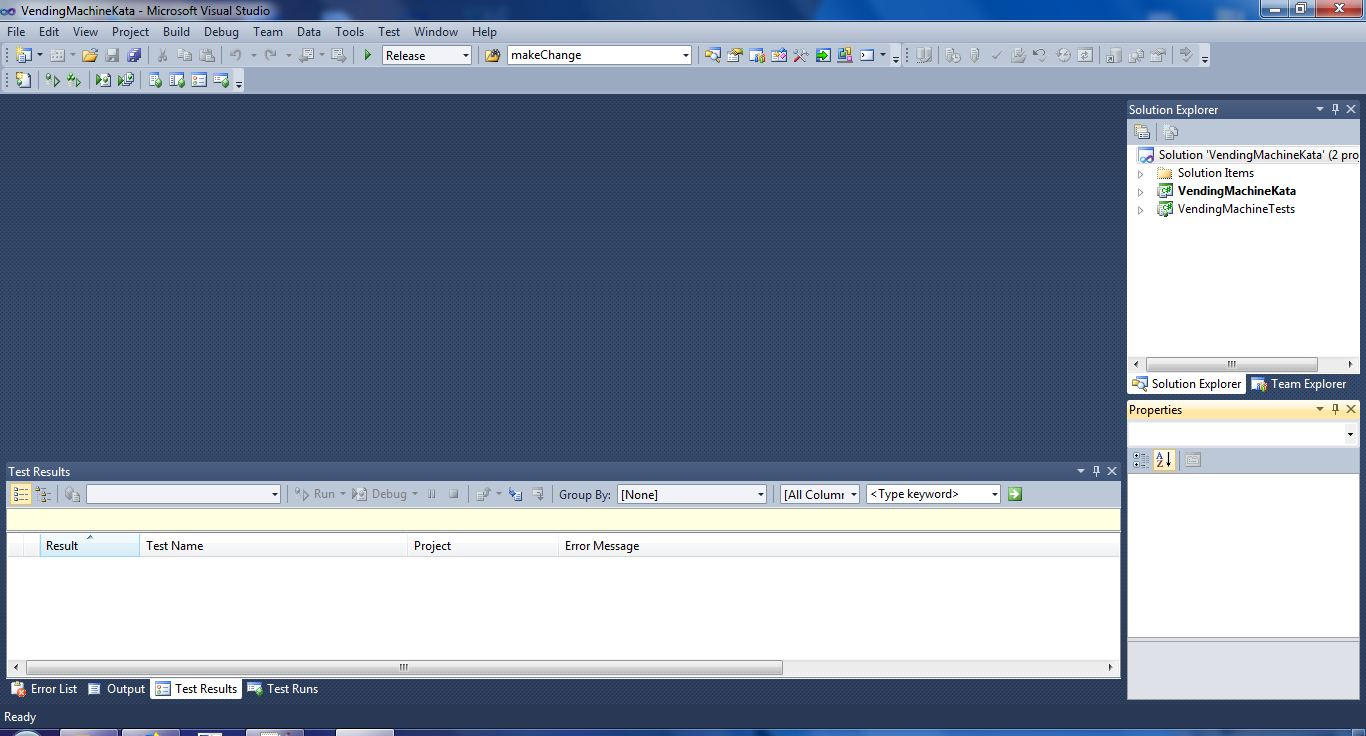
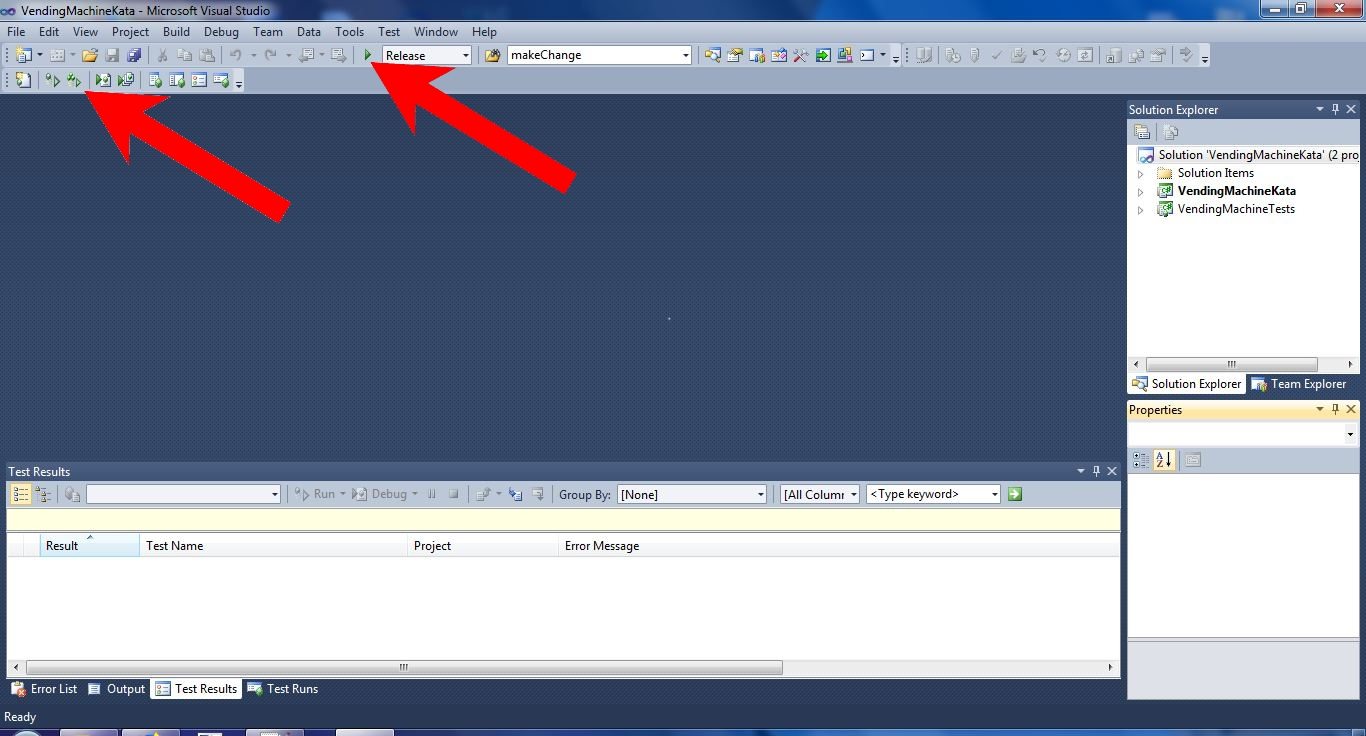
Updated ReadMe file

Changed region(s): [[0.2767, 0.0625, 0.4305, 0.2812], [0.0615, 0.125, 0.2152, 0.3125]]

diff --git a/README.md b/README.md
@@ -1,2 +1,41 @@
-# Vending-Machine-Kata
-Test Driven Development In Application Development
+Getting the vending machine to run
+----- 
+### Requirements:
+ * Microsoft Visual Studio 2010 or higher
+ * Microsoft Visual Studio Testing Tools
+ 
+### Running the tests:
+![FileLaunch](https://raw.githubusercontent.com/MegaManExpert/Vending-Machine-Kata/master/Screenshots/FileLaunch.JPG)
+Click on the VendingMachineKata.sln to open it in Visual Studio
+
+![RunTests](https://raw.githubusercontent.com/MegaManExpert/Vending-Machine-Kata/master/Screenshots/RunProgram-Tests.JPG)
+Click on "Run All Tests in Solution" button or Ctrl+R, A to run all the tests.
+
+![ViewTests](https://raw.githubusercontent.com/MegaManExpert/Vending-Machine-Kata/master/Screenshots/Tests.JPG)
+To view tests, click on the VendingMachineTests section to see each requirements tests
+
+### Running the Program:
+![FileLaunch](https://raw.githubusercontent.com/MegaManExpert/Vending-Machine-Kata/master/Screenshots/FileLaunch.JPG)
+Click on the VendingMachineKata.sln to open it in Visual Studio
+
+-OR-
+
+![RunExe](https://raw.githubusercontent.com/MegaManExpert/Vending-Machine-Kata/master/Screenshots/Running.JPG)
+Path over to VendingMachineKata\bin\Release and run "VendingMachineKata.exe" to run without launching Visual Studio
+
+![RunFromIDE](https://raw.githubusercontent.com/MegaManExpert/Vending-Machine-Kata/master/Screenshots/RunProgram-Tests.JPG)
+Click on "Start Debugging" button or F5 to build and run the application
+
+### Requirements:
+Just follow the directions on the screen by using the diffrent coins inputs, code buttons, or coin return.
+
+####List of valid commands:
+ * "Penny": Adds a single cent to the machine.
+ * "Nickle": Adds a five cents to the machine.
+ * "Dime": Adds a five cents to the machine.
+ * "Quarter": Adds a five cents to the machine.
+ * "A1": Selects the "Cola" product and returns it's price if current ammount is less then vend, is sold out, or vends.
+ * "B2": Selects the "Chips" product and returns it's price if current ammount is less then vend, is sold out, or vends.
+ * "C3": Selects the "Candy" product and returns it's price if current ammount is less then vend, is sold out, or vends.
+ * "D4": Selects the "Cookies" product and returns it's price if current ammount is less then vend, is sold out, or vends.
+ * "Return": Returns all machine credit as coins for retrieval.
